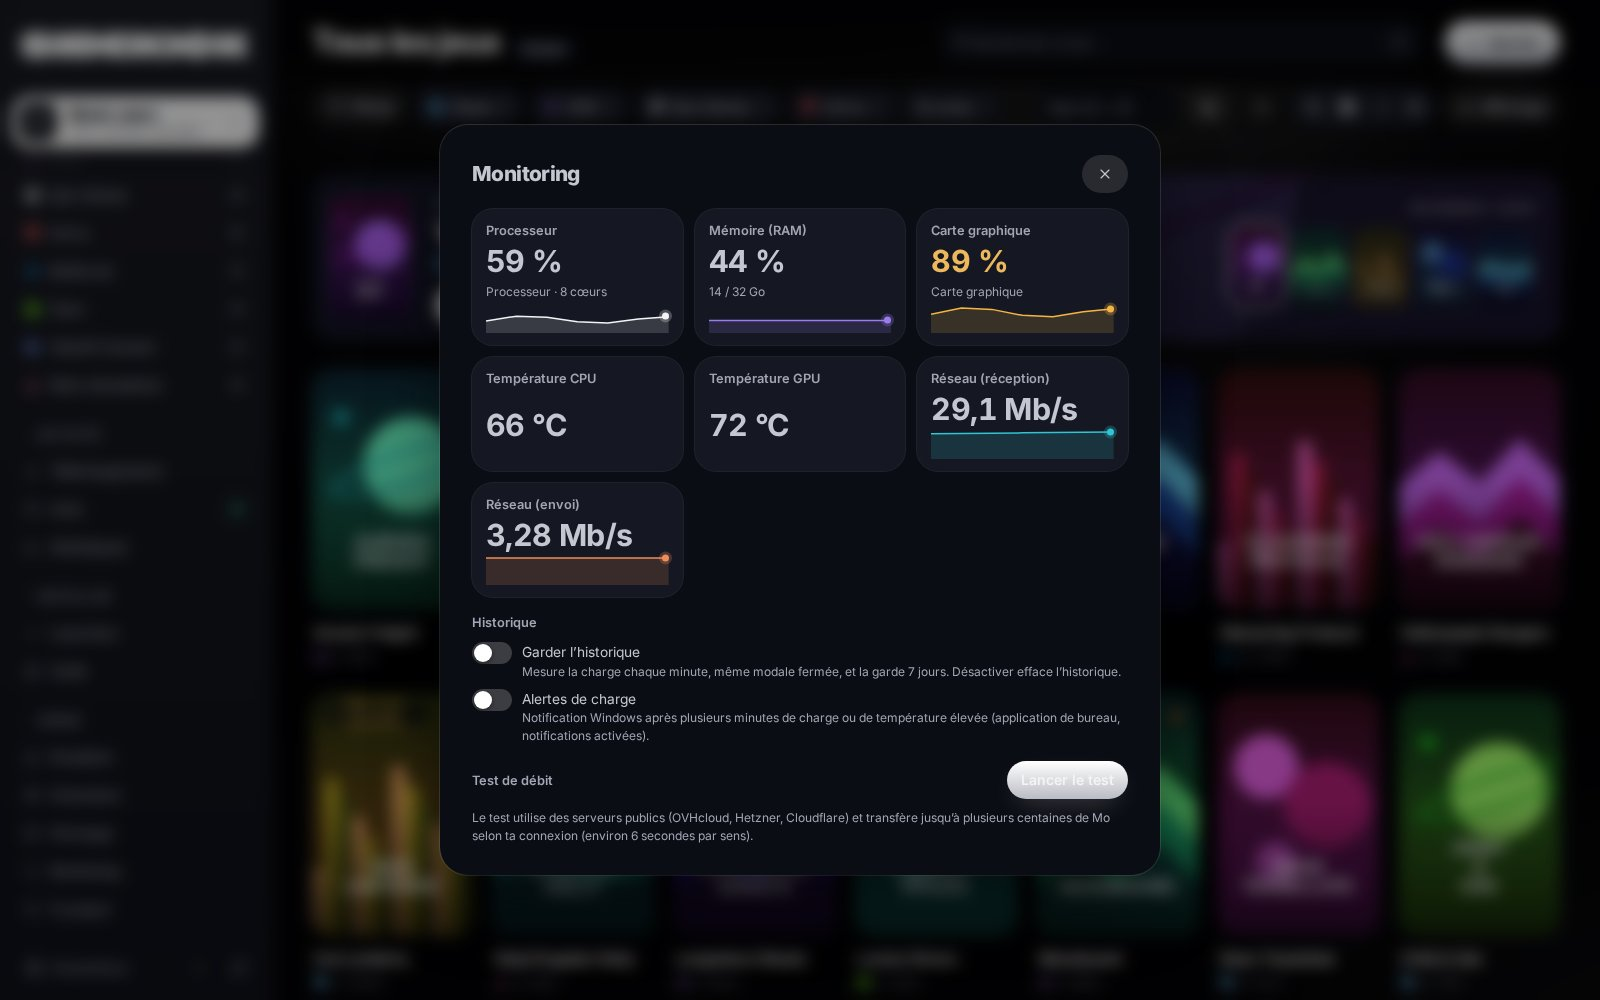
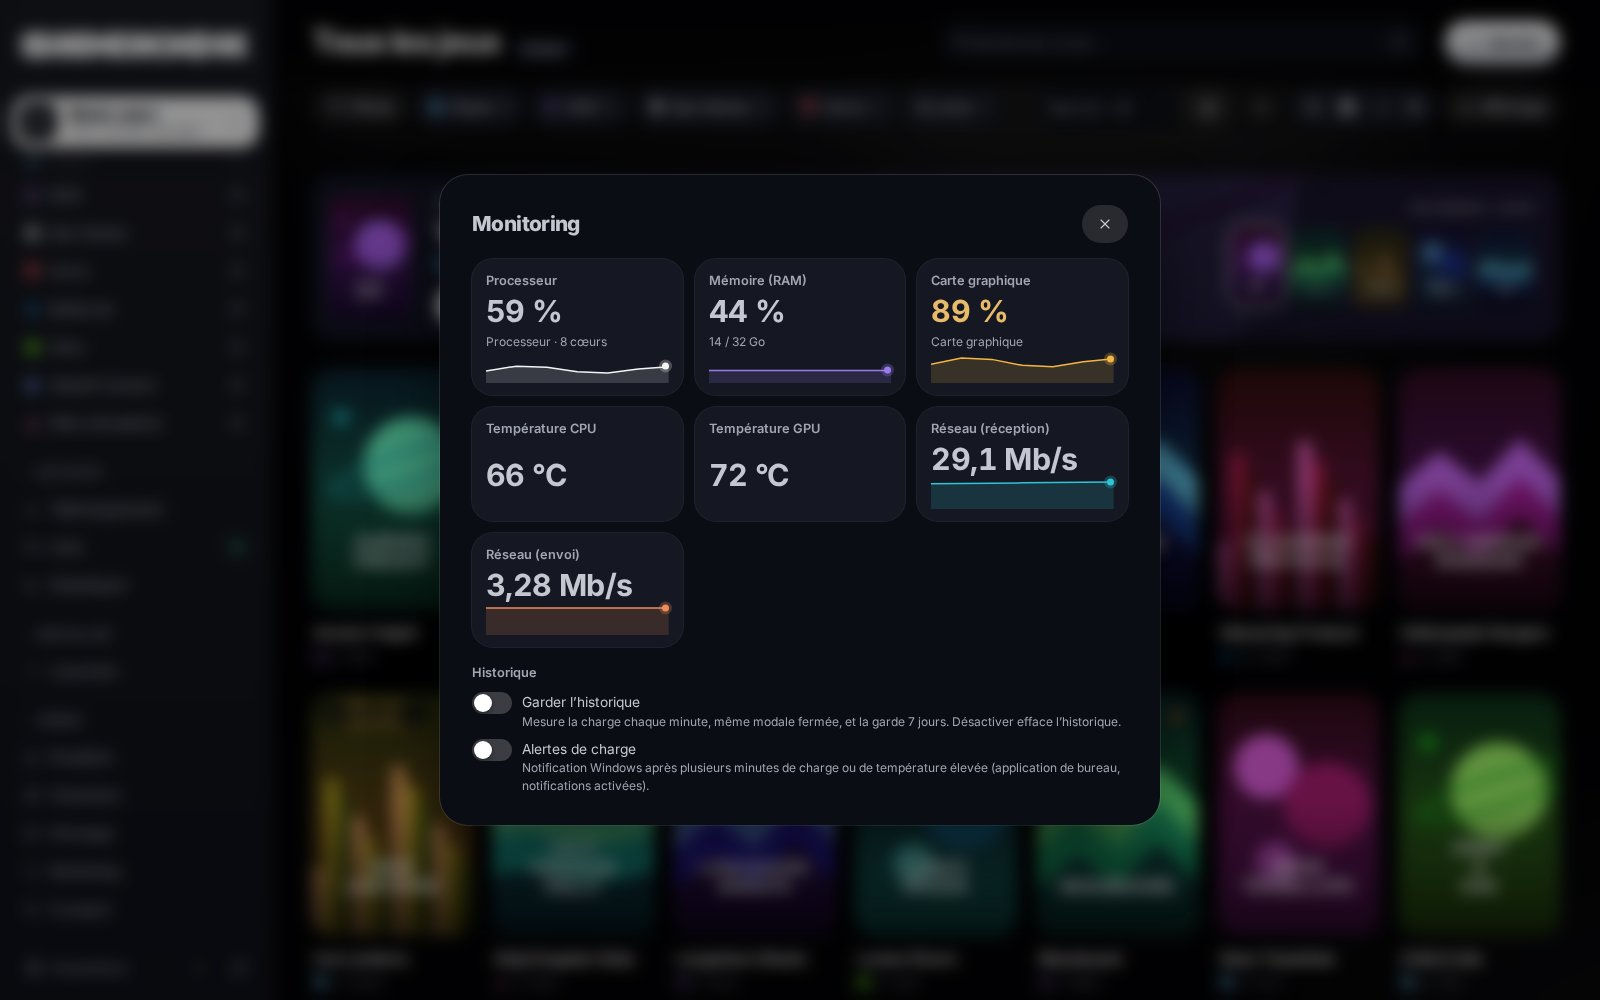
README : mise à jour pour la version 1.4.0
Plus d'installation d'outils depuis Sidekick, et capture du monitoring sans le test de débit.

diff --git a/README.md b/README.md
@@ -53,7 +53,7 @@ L'installateur n'est pas signé : Windows SmartScreen peut afficher un avertisse
 
 ## Prérequis
 
-Windows 10 ou 11. L'installation de launchers et d'outils depuis Sidekick utilise [winget](https://learn.microsoft.com/windows/package-manager/winget/) (« App Installer »).
+Windows 10 ou 11. L'installation de launchers et d'émulateurs depuis Sidekick utilise [winget](https://learn.microsoft.com/windows/package-manager/winget/) (« App Installer »).
 
 ## À propos de ce dépôt
 
